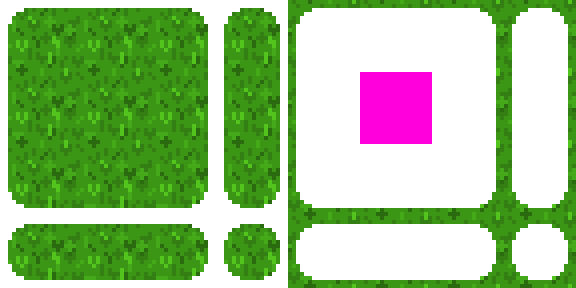
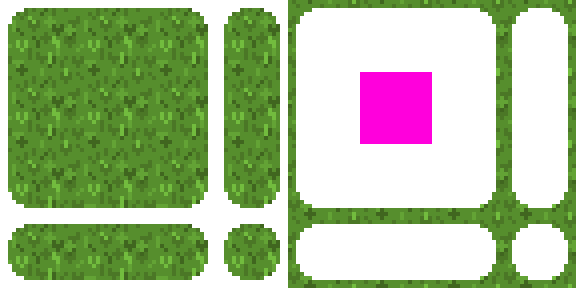
New tile textures and adjacent world cell tile blending

diff --git a/src/com/redsquare/citizen/worldgen/WorldSubCell.java b/src/com/redsquare/citizen/worldgen/WorldSubCell.java
@@ -1,6 +1,7 @@
 package com.redsquare.citizen.worldgen;
 
 import com.redsquare.citizen.debug.GameDebug;
+import com.redsquare.citizen.util.Randoms;
 
 import java.awt.*;
 import java.awt.image.BufferedImage;
@@ -17,13 +18,116 @@ public class WorldSubCell {
   private final TileID tileID;
 
   private static final int N = 0, W = 1, S = 2, E = 3;
+  private static final int COUNTS_AS_BORDER = 5;
 
   WorldSubCell(Point location, WorldCell cell, WorldCell.CellLandType cellLandType) {
     this.location = location;
     this.cell = cell;
     this.cellLandType = cellLandType;
 
-    this.tileID = TileID.fromCellLandType(cellLandType);
+    this.tileID = generateTileID();
+  }
+
+  private TileID generateTileID() {
+    // Literal edge case
+    if (location.x < COUNTS_AS_BORDER) {
+      WorldCell xNeighbour = cell.getWorld().getCell(cell.getLocation().x - 1, cell.getLocation().y);
+
+      if (location.y < COUNTS_AS_BORDER) {
+        WorldCell diagNeighbour = cell.getWorld().getCell(cell.getLocation().x - 1, cell.getLocation().y - 1);
+        WorldCell yNeighbour = cell.getWorld().getCell(cell.getLocation().x, cell.getLocation().y - 1);
+
+        return getCornerTileID(xNeighbour, yNeighbour, diagNeighbour,
+                location.x, location.y);
+      } else if (location.y >= WorldPosition.CELLS_IN_WORLD_CELL_DIM - COUNTS_AS_BORDER) {
+        WorldCell diagNeighbour = cell.getWorld().getCell(cell.getLocation().x - 1, cell.getLocation().y + 1);
+        WorldCell yNeighbour = cell.getWorld().getCell(cell.getLocation().x, cell.getLocation().y + 1);
+
+        return getCornerTileID(xNeighbour, yNeighbour, diagNeighbour,
+                location.x,
+                WorldPosition.CELLS_IN_WORLD_CELL_DIM - (location.y + 1));
+      } else {
+        return getEdgeTileID(xNeighbour, location.x);
+      }
+    } else if (location.x >= WorldPosition.CELLS_IN_WORLD_CELL_DIM - COUNTS_AS_BORDER) {
+      WorldCell xNeighbour = cell.getWorld().getCell(cell.getLocation().x + 1, cell.getLocation().y);
+
+      if (location.y < COUNTS_AS_BORDER) {
+        WorldCell diagNeighbour = cell.getWorld().getCell(cell.getLocation().x + 1, cell.getLocation().y - 1);
+        WorldCell yNeighbour = cell.getWorld().getCell(cell.getLocation().x, cell.getLocation().y - 1);
+
+        return getCornerTileID(xNeighbour, yNeighbour, diagNeighbour,
+                WorldPosition.CELLS_IN_WORLD_CELL_DIM - (location.x + 1),
+                location.y);
+      } else if (location.y >= WorldPosition.CELLS_IN_WORLD_CELL_DIM - COUNTS_AS_BORDER) {
+        WorldCell diagNeighbour = cell.getWorld().getCell(cell.getLocation().x + 1, cell.getLocation().y + 1);
+        WorldCell yNeighbour = cell.getWorld().getCell(cell.getLocation().x, cell.getLocation().y + 1);
+
+        return getCornerTileID(xNeighbour, yNeighbour, diagNeighbour,
+                WorldPosition.CELLS_IN_WORLD_CELL_DIM - (location.x + 1),
+                WorldPosition.CELLS_IN_WORLD_CELL_DIM - (location.y + 1));
+      } else {
+        return getEdgeTileID(xNeighbour,
+                WorldPosition.CELLS_IN_WORLD_CELL_DIM - (location.x + 1));
+      }
+    } else if (location.y < COUNTS_AS_BORDER) {
+      WorldCell yNeighbour = cell.getWorld().getCell(cell.getLocation().x, cell.getLocation().y - 1);
+      return getEdgeTileID(yNeighbour, location.y);
+    } else if (location.y >= WorldPosition.CELLS_IN_WORLD_CELL_DIM - COUNTS_AS_BORDER) {
+      WorldCell yNeighbour = cell.getWorld().getCell(cell.getLocation().x, cell.getLocation().y + 1);
+      return getEdgeTileID(yNeighbour,
+              WorldPosition.CELLS_IN_WORLD_CELL_DIM - (location.y + 1));
+    }
+
+    return TileID.fromCellLandType(cellLandType);
+  }
+
+  private TileID getEdgeTileID(final WorldCell NEIGHBOUR, final int DEPTH) {
+    if (NEIGHBOUR == null) return TileID.fromCellLandType(cellLandType);
+
+    double odds = (COUNTS_AS_BORDER - DEPTH) / (double)COUNTS_AS_BORDER;
+    double sum = odds + 1. + ((DEPTH) / (double)COUNTS_AS_BORDER);
+
+    double prob = Randoms.bounded(0., sum);
+
+    if (prob < odds)
+      return TileID.fromCellLandType(NEIGHBOUR.getCellLandType());
+
+    return TileID.fromCellLandType(cellLandType);
+  }
+
+  private TileID getCornerTileID(final WorldCell X_NEIGHBOUR,
+                                 final WorldCell Y_NEIGHBOUR, final WorldCell DIAG_NEIGHBOUR,
+                                 final int X_DEPTH, final int Y_DEPTH) {
+    if (X_NEIGHBOUR == null || Y_NEIGHBOUR == null || DIAG_NEIGHBOUR == null)
+      return TileID.fromCellLandType(cellLandType);
+
+    double[] odds = new double[] {
+            ((COUNTS_AS_BORDER - X_DEPTH) / (double)COUNTS_AS_BORDER) * 0.5,
+            ((COUNTS_AS_BORDER - Y_DEPTH) / (double)COUNTS_AS_BORDER) * 0.5,
+            Math.sqrt((Math.pow(COUNTS_AS_BORDER, 2.) -
+                    Math.pow(X_DEPTH + Y_DEPTH, 2.)) /
+                    Math.pow(COUNTS_AS_BORDER, 2.)) * 0.5,
+            0.5 + ((X_DEPTH + Y_DEPTH) / (double)COUNTS_AS_BORDER)
+    };
+
+    double[] thresholds = new double[] {
+            odds[0],
+            odds[0] + odds[1],
+            odds[0] + odds[1] + odds[2],
+            odds[0] + odds[1] + odds[2] + odds[3]
+    };
+
+    double prob = Randoms.bounded(0., thresholds[3]);
+
+    if (prob < thresholds[0])
+      return TileID.fromCellLandType(X_NEIGHBOUR.getCellLandType());
+    else if (prob < thresholds[1])
+      return TileID.fromCellLandType(Y_NEIGHBOUR.getCellLandType());
+    else if (prob < thresholds[2])
+      return TileID.fromCellLandType(DIAG_NEIGHBOUR.getCellLandType());
+
+    return TileID.fromCellLandType(cellLandType);
   }
 
   void generate() {
@@ -73,7 +177,7 @@ public class WorldSubCell {
     for (WorldSubCell neighbour : getNeighbours()) {
       if (neighbour == null ||
               (!neighbour.tileID.equals(REFERENCE) &&
-                      IS_ON ? 
+                      IS_ON ?
                       neighbour.tileID.priorityRank() < REFERENCE.priorityRank() :
                       neighbour.tileID.priorityRank() > REFERENCE.priorityRank()))
         code.append("0");
@@ -99,10 +203,10 @@ public class WorldSubCell {
             BufferedImage.TYPE_INT_ARGB);
     Graphics2D g = (Graphics2D) subCell.getGraphics();
 
-    drawNeighbouring(g, subCell.getWidth(), subCell.getHeight());
-
     g.drawImage(tileID.getSprite(generateCode(true, tileID)), 0, 0,
             subCell.getWidth(), subCell.getHeight(), null);
+
+    drawNeighbouring(g, subCell.getWidth(), subCell.getHeight());
 
     if (GameDebug.isActive())
       drawBorder(g, subCell.getWidth(), subCell.getHeight());

diff --git a/src/com/redsquare/citizen/worldgen/TileID.java b/src/com/redsquare/citizen/worldgen/TileID.java
@@ -49,6 +49,9 @@ public enum TileID implements Comparable<TileID> {
       case "PLAINS_GRASS":
       case "HILLY_GRASS":
       case "FOREST_FLOOR":
+      case "STONE":
+      case "BEACH_SAND":
+      case "SHALLOW_WATER":
         return name;
       default:
         return "VOID";

diff --git a/src/com/redsquare/citizen/worldgen/WorldCell.java b/src/com/redsquare/citizen/worldgen/WorldCell.java
@@ -93,6 +93,10 @@ public class WorldCell {
             subCells != null) ? subCells[x][y] : null;
   }
 
+  World getWorld() {
+    return world;
+  }
+
   public void addEntity(Entity e) {
     entities.add(e);
   }
